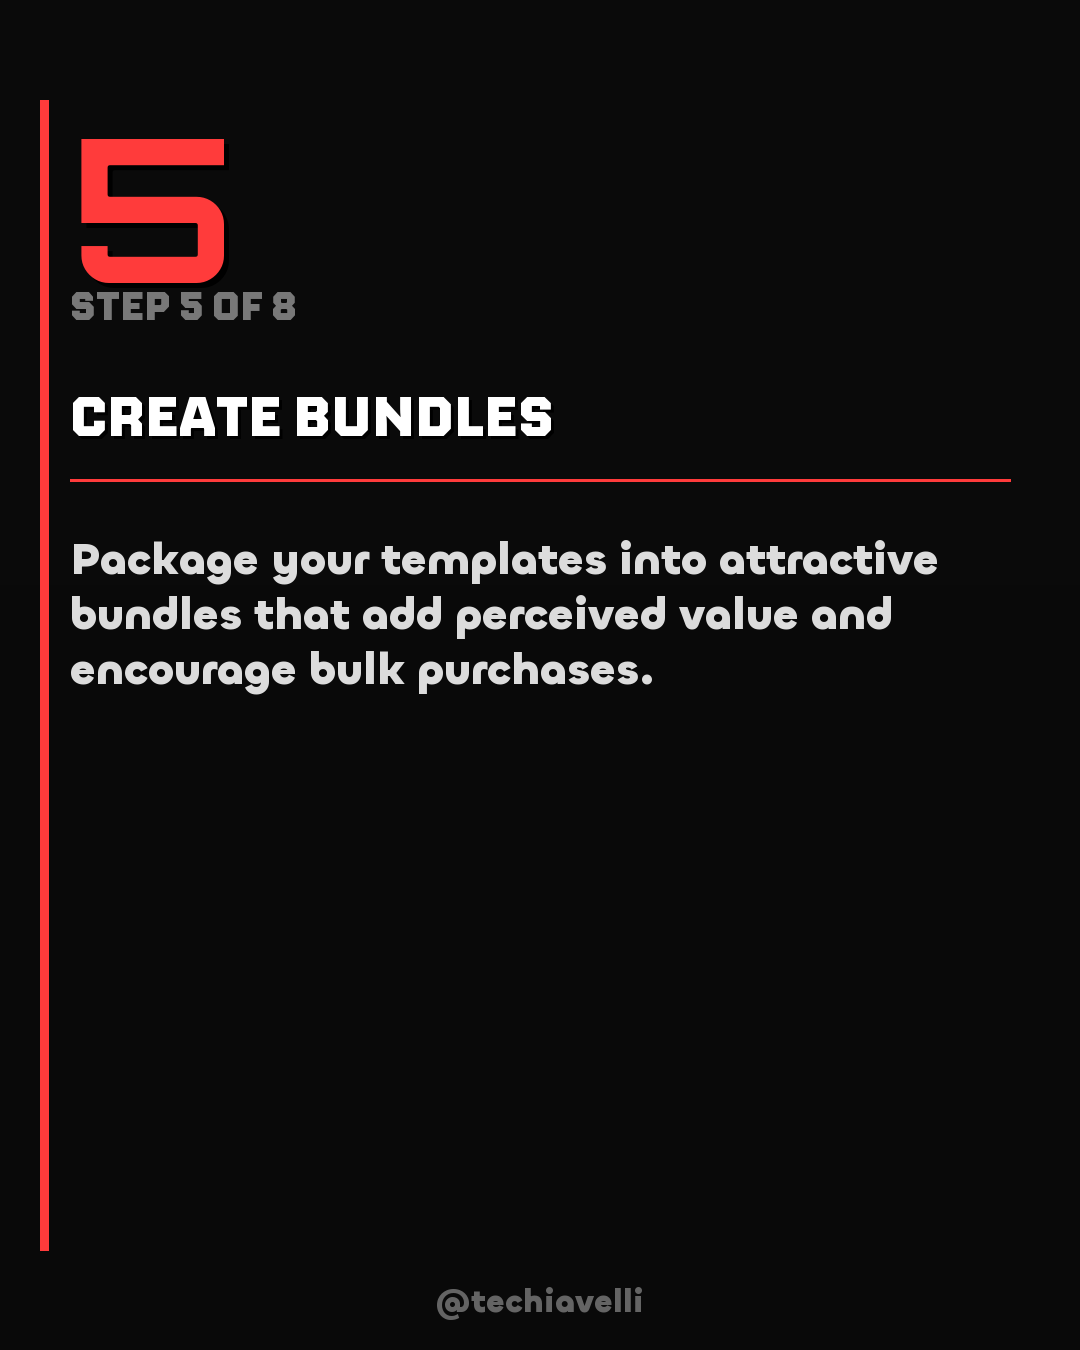
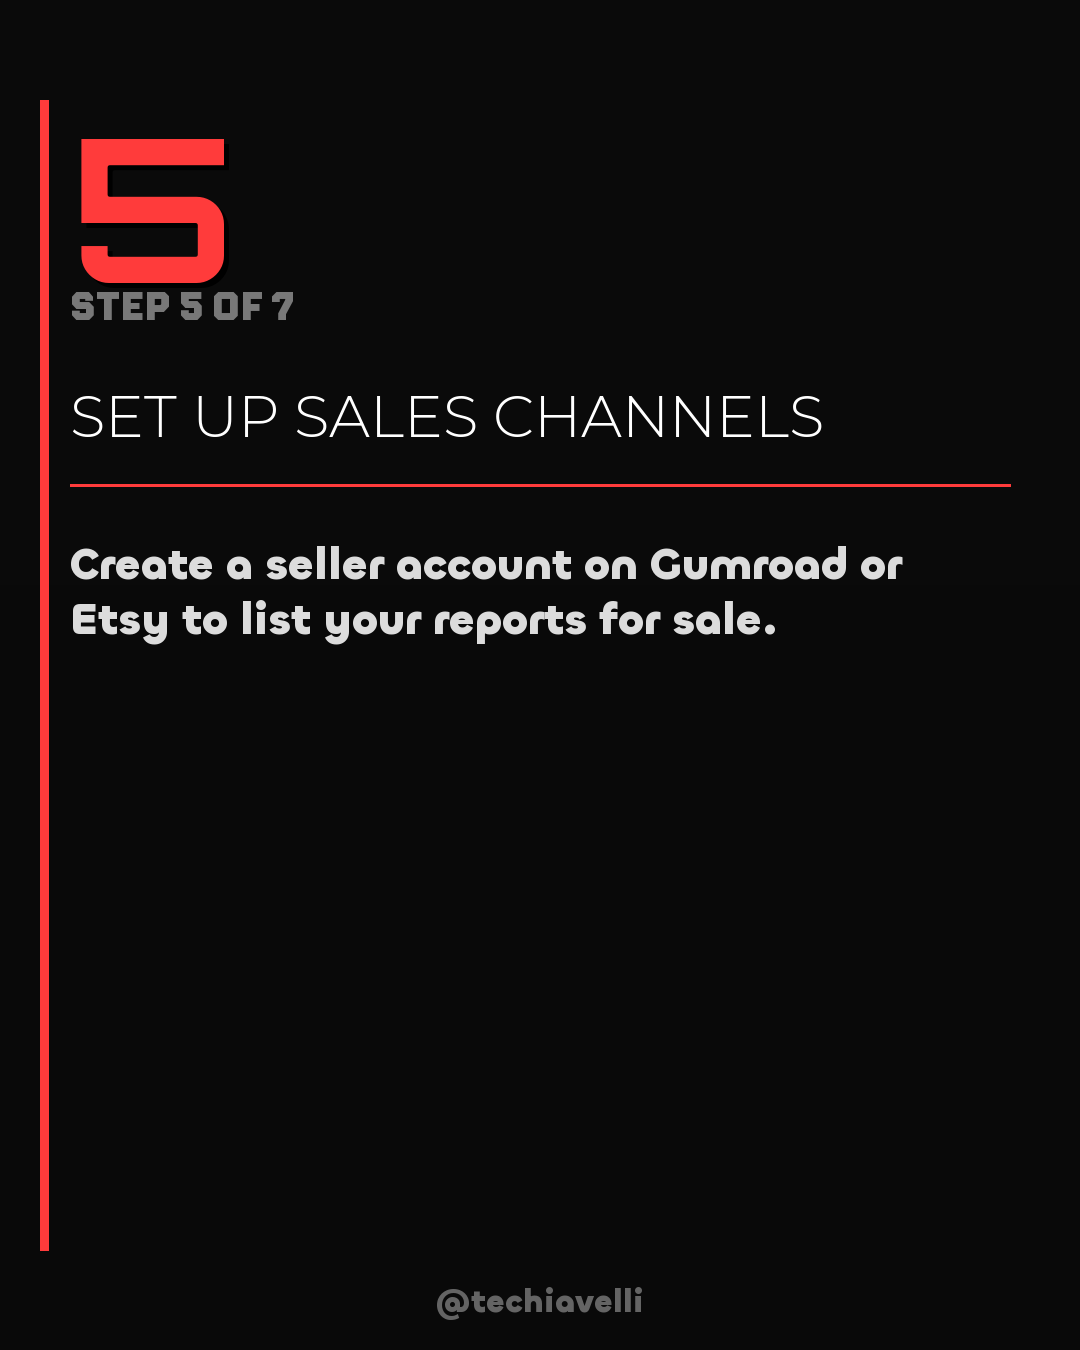
Improve AI-generated idea titles and step descriptions
Update `daily_aid_service.py` to generate more descriptive and actionable titles/steps, and adjust font sizes and weights in `daily_aid_slide_builder.py` for improved readability.

Replit-Commit-Author: Agent
Replit-Commit-Session-Id: e097bc39-29f9-42ff-9f58-d372b871b7d4
Replit-Commit-Checkpoint-Type: full_checkpoint
Replit-Commit-Event-Id: abd84675-db10-457a-ab48-f212f219159e

Changed region(s): [[0.0611, 0.4044, 0.8861, 0.5289], [0.0611, 0.28, 0.9167, 0.3733], [0.2444, 0.2178, 0.275, 0.2489]]

diff --git a/scripts/daily_aid_service.py b/scripts/daily_aid_service.py
@@ -143,9 +143,9 @@ Create a sophisticated, grey-hat, money-making idea that uses AI and online tool
 
 OUTPUT FORMAT (JSON):
 {{
-    "title": "Short catchy name 2-4 words (e.g., 'AI Ghostwriter Empire', 'LinkedIn Scrape Stack', 'Thumbnail Cash Machine')",
+    "title": "DESCRIPTIVE action-based title that clearly explains what you're building and selling. NOT vague or cheesy marketing speak. Examples of GOOD titles: 'Selling AI-Made Resume Templates', 'Offering AI Video Editing Services', 'Building Custom ChatGPT Bots for Businesses'. Examples of BAD titles: 'Template Empire', 'Cash Machine', 'Money Printer', 'Digital Goldmine'. The title should tell someone EXACTLY what they will be doing.",
     
-    "income_method": "Short phrase describing HOW the money is made (e.g., 'selling automated content', 'charging monthly retainers', 'flipping AI-generated designs'). This completes the sentence 'make money by [income_method]'",
+    "income_method": "Short phrase describing HOW the money is made (e.g., 'selling templates on Etsy', 'charging $500/month per client', 'flipping designs on Creative Market'). Be specific about WHERE the money comes from.",
     
     "summary": "One compelling sentence (under 20 words) that makes this sound irresistible. Hook them.",
     
@@ -155,7 +155,7 @@ OUTPUT FORMAT (JSON):
         {{
             "number": 1,
             "title": "Short step title (3-5 words)",
-            "description": "Clear, actionable description of this step (1-2 sentences). Mention specific tools when relevant."
+            "description": "SPECIFIC and ACTIONABLE. Name exact tools (e.g., 'Open Canva.com and use their resume template section', 'Go to Upwork.com and create a profile'). Make it sound EASY and MOTIVATING. Avoid vague phrases like 'research trends' or 'identify your niche' - instead say exactly HOW to do it with specific tools and websites."
         }},
         // ... 5-8 more steps
     ],
@@ -171,14 +171,12 @@ OUTPUT FORMAT (JSON):
     "kickoff_prompt": "A detailed prompt (150-300 words) that someone can paste into ChatGPT or Claude to get started on implementing this idea. This should be specific and actionable - helping them research, plan, or create the first deliverable. Include what to ask the AI to do step-by-step."
 }}
 
-QUALITY CHECKLIST:
-□ Title sounds like a cheat code, not a textbook
-□ Summary creates FOMO - they need to know more
-□ Each step is specific and actionable with real tools mentioned
-□ Steps flow logically from setup to revenue
-□ Kickoff prompt is genuinely useful - not generic
-□ The whole thing feels slightly transgressive but totally legal
-□ Someone could actually do this starting tomorrow
+CRITICAL RULES:
+1. TITLE must clearly describe what they're DOING and SELLING - no vague buzzwords
+2. STEPS must mention SPECIFIC websites and tools by name (Canva, Fiverr, Gumroad, Notion, etc.)
+3. STEPS should sound EASY and EXCITING - not like homework
+4. Never use phrases like "research your niche" or "identify trends" without explaining HOW
+5. Each step should feel like "oh that's simple, I can do that right now"
 
 Generate now:"""
 

diff --git a/scripts/daily_aid_slide_builder.py b/scripts/daily_aid_slide_builder.py
@@ -60,11 +60,12 @@ class DailyAidSlideBuilder:
             self.font_display_xl = ImageFont.truetype(display_font, 110)
             self.font_light = ImageFont.truetype(light_font, 34)
             self.font_light_small = ImageFont.truetype(light_font, 28)
-            self.font_stardom_large = ImageFont.truetype(stardom_font, 90)
-            self.font_stardom_medium = ImageFont.truetype(stardom_font, 32)
-            self.font_montserrat_400 = ImageFont.truetype(montserrat_font, 36)
-            self.font_montserrat_400_medium = ImageFont.truetype(montserrat_font, 32)
-            self.font_montserrat_500 = ImageFont.truetype(montserrat_font, 42)
+            self.font_stardom_large = ImageFont.truetype(stardom_font, 105)
+            self.font_stardom_medium = ImageFont.truetype(stardom_font, 36)
+            self.font_montserrat_400 = ImageFont.truetype(montserrat_font, 44)
+            self.font_montserrat_400_medium = ImageFont.truetype(montserrat_font, 38)
+            self.font_montserrat_500 = ImageFont.truetype(montserrat_font, 50)
+            self.font_step_header_light = ImageFont.truetype(light_font, 58)
         except Exception as e:
             logger.warning(f"Failed to load custom fonts: {e}, using default")
             self.font_title = ImageFont.load_default()
@@ -86,6 +87,7 @@ class DailyAidSlideBuilder:
             self.font_montserrat_400 = ImageFont.load_default()
             self.font_montserrat_400_medium = ImageFont.load_default()
             self.font_montserrat_500 = ImageFont.load_default()
+            self.font_step_header_light = ImageFont.load_default()
     
     def _hex_to_rgb(self, hex_color: str) -> Tuple[int, int, int]:
         """Convert hex color to RGB tuple."""
@@ -309,12 +311,12 @@ class DailyAidSlideBuilder:
         draw.text((70, 280), progress_text, font=self.font_header, fill=(120, 120, 120))
         
         step_title = step.get('title', f'Step {step_num}')
-        title_lines = self._wrap_text(step_title.upper(), self.font_step_title, self.width - 140)
+        title_lines = self._wrap_text(step_title.upper(), self.font_step_header_light, self.width - 140)
         
         y_offset = 380
         for line in title_lines:
-            self._draw_text_with_shadow(draw, (70, y_offset), line, self.font_step_title, (255, 255, 255), shadow_offset=3)
-            y_offset += 70
+            draw.text((70, y_offset), line, font=self.font_step_header_light, fill=(255, 255, 255))
+            y_offset += 75
         
         y_offset += 30
         draw.line([(70, y_offset), (self.width - 70, y_offset)], fill=accent_rgb, width=3)
